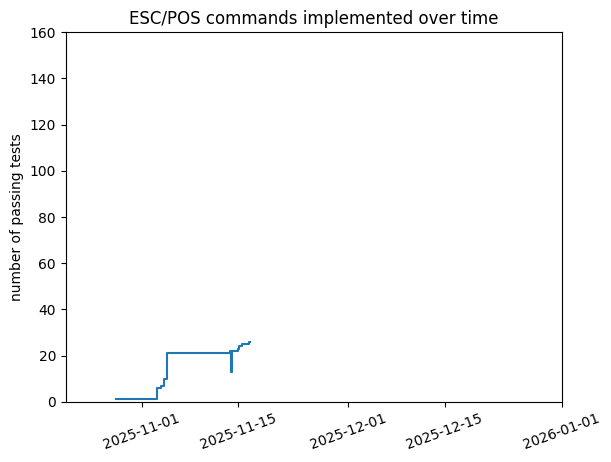
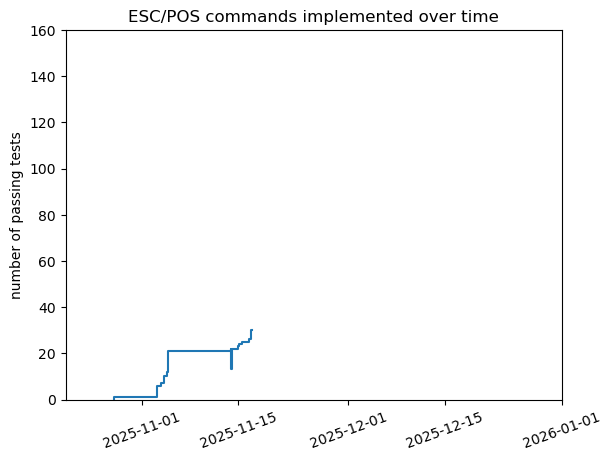
Implement SelectDefaultLineSpacing through CancelUserDefinedCharacters
Stuck on SetHorizontalTabPositions because it requires parsing a
variable-length null-terminated buffer

Changed region(s): [[0.0, 0.0, 0.9329, 0.9739], [0.8396, 0.8826, 0.9951, 0.9739], [0.311, 0.913, 0.4354, 0.9739]]

diff --git a/src/index.ts b/src/index.ts
@@ -8,6 +8,16 @@ import { CmdBase } from './cmd'
 
 // --- ENUMS ---
 
+export enum PeripheralDeviceSelection {
+  EnablePrinter = 'PeripheralDeviceSelection.EnablePrinter',
+  DisablePrinter = 'PeripheralDeviceSelection.DisablePrinter',
+}
+
+const PeripheralDeviceSelectionToNumber: Record<PeripheralDeviceSelection, number> = {
+  [PeripheralDeviceSelection.EnablePrinter]: 1,
+  [PeripheralDeviceSelection.DisablePrinter]: 2,
+}
+
 export enum UserDefinedCharacterSetSelection {
   Canceled = 'UserDefinedCharacterSetSelection.Canceled',
   Selected = 'UserDefinedCharacterSetSelection.Selected',
@@ -280,29 +290,87 @@ export class SetUnderlineMode extends CmdBase {
 /**
  * https://download4.epson.biz/sec_pubs/pos/reference_en/escpos/esc_2.html
  */
-export class SelectDefaultLineSpacing extends CmdBase {}
+@register(['ESC', '2'])
+export class SelectDefaultLineSpacing extends CmdBase {
+  static override desc: string = 'Select default line spacing'
+}
 
 /**
  * https://download4.epson.biz/sec_pubs/pos/reference_en/escpos/esc_3.html
  */
-export class SetLineSpacing extends CmdBase {}
+@register(['ESC', '3'])
+export class SetLineSpacing extends CmdBase {
+  static override desc: string = 'Set line spacing'
+
+  @serial('u8')
+  @range(0, 255)
+  n: number
+
+  constructor(n: number) {
+    super()
+    this.n = n
+    this.validate()
+  }
+}
 
 /**
  * https://download4.epson.biz/sec_pubs/pos/reference_en/escpos/esc_equal.html
  */
-export class SelectPeripheralDevice extends CmdBase {}
+@register(['ESC', '='])
+export class SelectPeripheralDevice extends CmdBase {
+  static override desc: string = 'Select peripheral device'
+
+  @serial('u8')
+  @range(0, 255)
+  n: number
+
+  constructor(sel: PeripheralDeviceSelection) {
+    super()
+    this.n = PeripheralDeviceSelectionToNumber[sel]
+    this.validate()
+  }
+}
 
 /**
  * https://download4.epson.biz/sec_pubs/pos/reference_en/escpos/esc_questionmark.html
  */
-export class CancelUserDefinedCharacters extends CmdBase {}
+@register(['ESC', '?'])
+export class CancelUserDefinedCharacters extends CmdBase {
+  static override desc: string = 'Cancel user-defined characters'
 
+  @serial('u8')
+  @range(32, 126)
+  n: number
+
+  constructor(n: number) {
+    super()
+    this.n = n
+    this.validate()
+  }
+}
+
+/**
+ * https://download4.epson.biz/sec_pubs/pos/reference_en/escpos/esc_atsign.html
+ */
 @register(['ESC', '@'])
 export class InitializePrinter extends CmdBase {
   static override desc: string = 'Initialize printer'
 }
 
-export class SetHorizontalTabPositions extends CmdBase {}
+/**
+ * https://download4.epson.biz/sec_pubs/pos/reference_en/escpos/esc_cd.html
+ */
+@register(['ESC', 'D'])
+export class SetHorizontalTabPositions extends CmdBase {
+  static override desc: string = 'Set horizontal tab positions'
+
+  // TODO read null-terminated buffer
+
+  constructor(...args: number[]) {
+    super()
+    // TODO
+  }
+}
 
 /**
  * https://download4.epson.biz/sec_pubs/pos/reference_en/escpos/esc_ce.html

diff --git a/tests/all.ts b/tests/all.ts
@@ -1,6 +1,7 @@
 import test from 'node:test'
 import assert from 'node:assert'
 import {
+  PeripheralDeviceSelection,
   UserDefinedCharacterSetSelection,
   BitImageMode,
   UnderlineMode,
@@ -182,10 +183,46 @@ const testCases: TestCase[] = [
       n: 1,
     }
   },
-  { class: SelectDefaultLineSpacing },
-  { class: SetLineSpacing },
-  { class: SelectPeripheralDevice },
-  { class: CancelUserDefinedCharacters },
+  {
+    class: SelectDefaultLineSpacing,
+    constructed: new SelectDefaultLineSpacing(),
+    bytes: Buffer.from([
+      0x1b, 0x32,
+    ]),
+  },
+  {
+    class: SetLineSpacing,
+    constructed: new SetLineSpacing(1),
+    bytes: Buffer.from([
+      0x1b, 0x33,
+      0x01,
+    ]),
+    checks: {
+      n: 1,
+    },
+  },
+  {
+    class: SelectPeripheralDevice,
+    constructed: new SelectPeripheralDevice(PeripheralDeviceSelection.EnablePrinter),
+    bytes: Buffer.from([
+      0x1b, 0x3d,
+      0x01,
+    ]),
+    checks: {
+      n: 1,
+    },
+  },
+  {
+    class: CancelUserDefinedCharacters,
+    constructed: new CancelUserDefinedCharacters(32),
+    bytes: Buffer.from([
+      0x1b, 0x3f,
+      0x20,
+    ]),
+    checks: {
+      n: 32,
+    },
+  },
   {
     class: InitializePrinter,
     constructed: new InitializePrinter(),
@@ -193,7 +230,19 @@ const testCases: TestCase[] = [
       0x1b, 0x40,
     ]),
   },
-  { class: SetHorizontalTabPositions },
+  {
+    class: SetHorizontalTabPositions,
+    constructed: new SetHorizontalTabPositions(8, 16, 32),
+    bytes: Buffer.from([
+      0x1b, 0x44,
+      8, 16, 32, 0,
+    ]),
+    checks: {
+      buf: Buffer.from([
+        8, 16, 32,
+      ]),
+    },
+  },
   {
     class: SetEmphasizedMode,
     constructed: new SetEmphasizedMode(EmphasizedMode.On),

diff --git a/README.md b/README.md
@@ -19,65 +19,89 @@ documentation and look at how other similar commands are implemented.
 
 ```
 ▶ ParseError
-  ✔ unrecognized prefix (0.485ms)
-  ✔ incomplete command (0.051375ms)
-  ✔ incomplete command after complete command (0.087333ms)
-✔ ParseError (0.870042ms)
-✔ HorizontalTab (0.254709ms)
-✔ SetCharacterSpacing (0.141166ms)
-✔ SelectPrintMode (0.041625ms)
-✔ SetAbsolutePrintPosition (0.037375ms)
-✔ SelectOrCancelUserDefinedCharacterSet (0.19325ms)
-﹣ DefineUserDefinedCharacters (0.106459ms) # SKIP
-﹣ ControlBeeperTones (0.024333ms) # SKIP
-﹣ ModelSpecificBuzzerControl (0.0185ms) # SKIP
-✔ SelectBitImageMode (0.111083ms)
-✔ SetUnderlineMode (0.061792ms)
-﹣ SelectDefaultLineSpacing (0.014958ms) # SKIP
-﹣ SetLineSpacing (0.01425ms) # SKIP
-﹣ SelectPeripheralDevice (0.014625ms) # SKIP
-﹣ CancelUserDefinedCharacters (0.013292ms) # SKIP
-✔ InitializePrinter (0.026167ms)
-﹣ SetHorizontalTabPositions (0.01325ms) # SKIP
-✔ SetEmphasizedMode (0.078167ms)
-﹣ SetDoubleStrikeMode (0.014291ms) # SKIP
-﹣ PrintAndFeedPaper (0.014334ms) # SKIP
-﹣ SelectPageMode (0.012917ms) # SKIP
-✔ SelectCharacterFont (0.02725ms)
-﹣ SelectInternationalCharacterSet (0.012917ms) # SKIP
-﹣ SelectStandardMode (0.012708ms) # SKIP
-﹣ SelectPrintDirectionInPageMode (0.01275ms) # SKIP
-﹣ SetRotationMode (0.012625ms) # SKIP
-﹣ SetPrintAreaInPageMode (0.0125ms) # SKIP
-﹣ SetRelativePrintPosition (0.012458ms) # SKIP
-✔ SelectJustification (0.024125ms)
-﹣ SelectPaperSensorsToOutputPaperEndSignals (0.013209ms) # SKIP
-﹣ SelectPaperSensorsToStopPrinting (0.012583ms) # SKIP
-﹣ EnableOrDisablePanelButtons (0.0125ms) # SKIP
-✔ PrintAndFeedNLines (0.080583ms)
-﹣ PartialCutOnePointLeftUncut (0.013083ms) # SKIP
-﹣ PartialCutThreePointsLeftUncut (0.01275ms) # SKIP
-﹣ GeneratePulse (0.012833ms) # SKIP
-﹣ SelectCharacterCodeTable (0.013333ms) # SKIP
-﹣ TransmitPeripheralDeviceStatus (0.0125ms) # SKIP
-﹣ TransmitPaperSensorStatus (0.014ms) # SKIP
-﹣ SetUpsideDownPrintMode (0.01775ms) # SKIP
-✔ SelectKanjiCharacterFont (0.030625ms)
-✔ CancelSetValuesForTopOrBottomLogoPrinting (0.030125ms)
-✔ TransmitSetValuesForTopOrBottomLogoPrinting (0.024875ms)
-✔ SetTopLogoPrinting (0.036125ms)
-✔ SetBottomLogoPrinting (0.025625ms)
-✔ MakeExtendedSettingsForTopOrBottomLogoPrinting (0.02725ms)
-✔ EnableOrDisableTopOrBottomLogoPrinting (0.047875ms)
-✔ SelectCharacterSize (0.021583ms)
-✔ SetWhiteAndBlackReversePrintMode (0.020916ms)
-✔ SelectCutModeAndCutPaper (0.026667ms)
+  ✔ unrecognized prefix (0.491334ms)
+  ✔ incomplete command (0.051916ms)
+  ✔ incomplete command after complete command (0.089041ms)
+✔ ParseError (0.880042ms)
+✔ HorizontalTab (0.257666ms)
+✔ SetCharacterSpacing (0.142958ms)
+✔ SelectPrintMode (0.042042ms)
+✔ SetAbsolutePrintPosition (0.038916ms)
+✔ SelectOrCancelUserDefinedCharacterSet (0.192084ms)
+﹣ DefineUserDefinedCharacters (0.1085ms) # SKIP
+﹣ ControlBeeperTones (0.025875ms) # SKIP
+﹣ ModelSpecificBuzzerControl (0.031708ms) # SKIP
+✔ SelectBitImageMode (0.133125ms)
+✔ SetUnderlineMode (0.068208ms)
+✔ SelectDefaultLineSpacing (0.028542ms)
+✔ SetLineSpacing (0.076709ms)
+✔ SelectPeripheralDevice (0.028542ms)
+✔ CancelUserDefinedCharacters (0.02425ms)
+✔ InitializePrinter (0.077542ms)
+✖ SetHorizontalTabPositions (0.043208ms)
+✔ SetEmphasizedMode (0.029791ms)
+﹣ SetDoubleStrikeMode (0.014917ms) # SKIP
+﹣ PrintAndFeedPaper (0.013041ms) # SKIP
+﹣ SelectPageMode (0.012583ms) # SKIP
+✔ SelectCharacterFont (0.022417ms)
+﹣ SelectInternationalCharacterSet (0.0145ms) # SKIP
+﹣ SelectStandardMode (0.012584ms) # SKIP
+﹣ SelectPrintDirectionInPageMode (0.012875ms) # SKIP
+﹣ SetRotationMode (0.013667ms) # SKIP
+﹣ SetPrintAreaInPageMode (0.012208ms) # SKIP
+﹣ SetRelativePrintPosition (0.012792ms) # SKIP
+✔ SelectJustification (0.020625ms)
+﹣ SelectPaperSensorsToOutputPaperEndSignals (0.012792ms) # SKIP
+﹣ SelectPaperSensorsToStopPrinting (0.0125ms) # SKIP
+﹣ EnableOrDisablePanelButtons (0.012125ms) # SKIP
+✔ PrintAndFeedNLines (0.01975ms)
+﹣ PartialCutOnePointLeftUncut (0.012292ms) # SKIP
+﹣ PartialCutThreePointsLeftUncut (0.01225ms) # SKIP
+﹣ GeneratePulse (0.012208ms) # SKIP
+﹣ SelectCharacterCodeTable (0.012167ms) # SKIP
+﹣ TransmitPeripheralDeviceStatus (0.01275ms) # SKIP
+﹣ TransmitPaperSensorStatus (0.012541ms) # SKIP
+﹣ SetUpsideDownPrintMode (0.012166ms) # SKIP
+✔ SelectKanjiCharacterFont (0.034833ms)
+✔ CancelSetValuesForTopOrBottomLogoPrinting (0.029583ms)
+✔ TransmitSetValuesForTopOrBottomLogoPrinting (0.023ms)
+✔ SetTopLogoPrinting (0.032042ms)
+✔ SetBottomLogoPrinting (0.024584ms)
+✔ MakeExtendedSettingsForTopOrBottomLogoPrinting (0.027042ms)
+✔ EnableOrDisableTopOrBottomLogoPrinting (0.054875ms)
+✔ SelectCharacterSize (0.01925ms)
+✔ SetWhiteAndBlackReversePrintMode (0.022625ms)
+✔ SelectCutModeAndCutPaper (0.01775ms)
 ℹ tests 53
 ℹ suites 0
-ℹ pass 26
-ℹ fail 0
+ℹ pass 30
+ℹ fail 1
 ℹ cancelled 0
-ℹ skipped 27
+ℹ skipped 22
 ℹ todo 0
-ℹ duration_ms 6.408916
+ℹ duration_ms 6.656583
+
+✖ failing tests:
+
+test at tests/all.ts:2:6674
+✖ SetHorizontalTabPositions (0.043208ms)
+  ParseError: unexpected token: 8
+      at parse (/Users/a/workspace/escpos-ts/src/parse.ts:88:13)
+      at TestContext.<anonymous> (/Users/a/workspace/escpos-ts/tests/all.ts:477:18)
+      at Test.runInAsyncScope (node:async_hooks:214:14)
+      at Test.run (node:internal/test_runner/test:1047:25)
+      at Test.processPendingSubtests (node:internal/test_runner/test:744:18)
+      at Test.postRun (node:internal/test_runner/test:1173:19)
+      at Test.run (node:internal/test_runner/test:1101:12)
+      at async Test.processPendingSubtests (node:internal/test_runner/test:744:7)
+
 ```
+
+### Notes
+
+- Different types of parameters:
+  - little-endian 8-bit, 16-bit or 32-bit number
+  - variable-size null-terminated buffer with max size e.g. <https://download4.epson.biz/sec_pubs/pos/reference_en/escpos/esc_cd.html>
+  - interleaved key-value pairs with total length specified in header e.g. <https://download4.epson.biz/sec_pubs/pos/reference_en/escpos/fs_lparen_ce_fn64.html>
+  - buffer of bytes with total length specified in header e.g. <https://download4.epson.biz/sec_pubs/pos/reference_en/escpos/gs_lparen_cl_fn112.html>
+- Given the above, I think I want to rework the decorator metadata to store references to specialized parsing functions depending on the type of parameter. the function should perhaps return the in-memory representation along with the number of bytes parsed.
